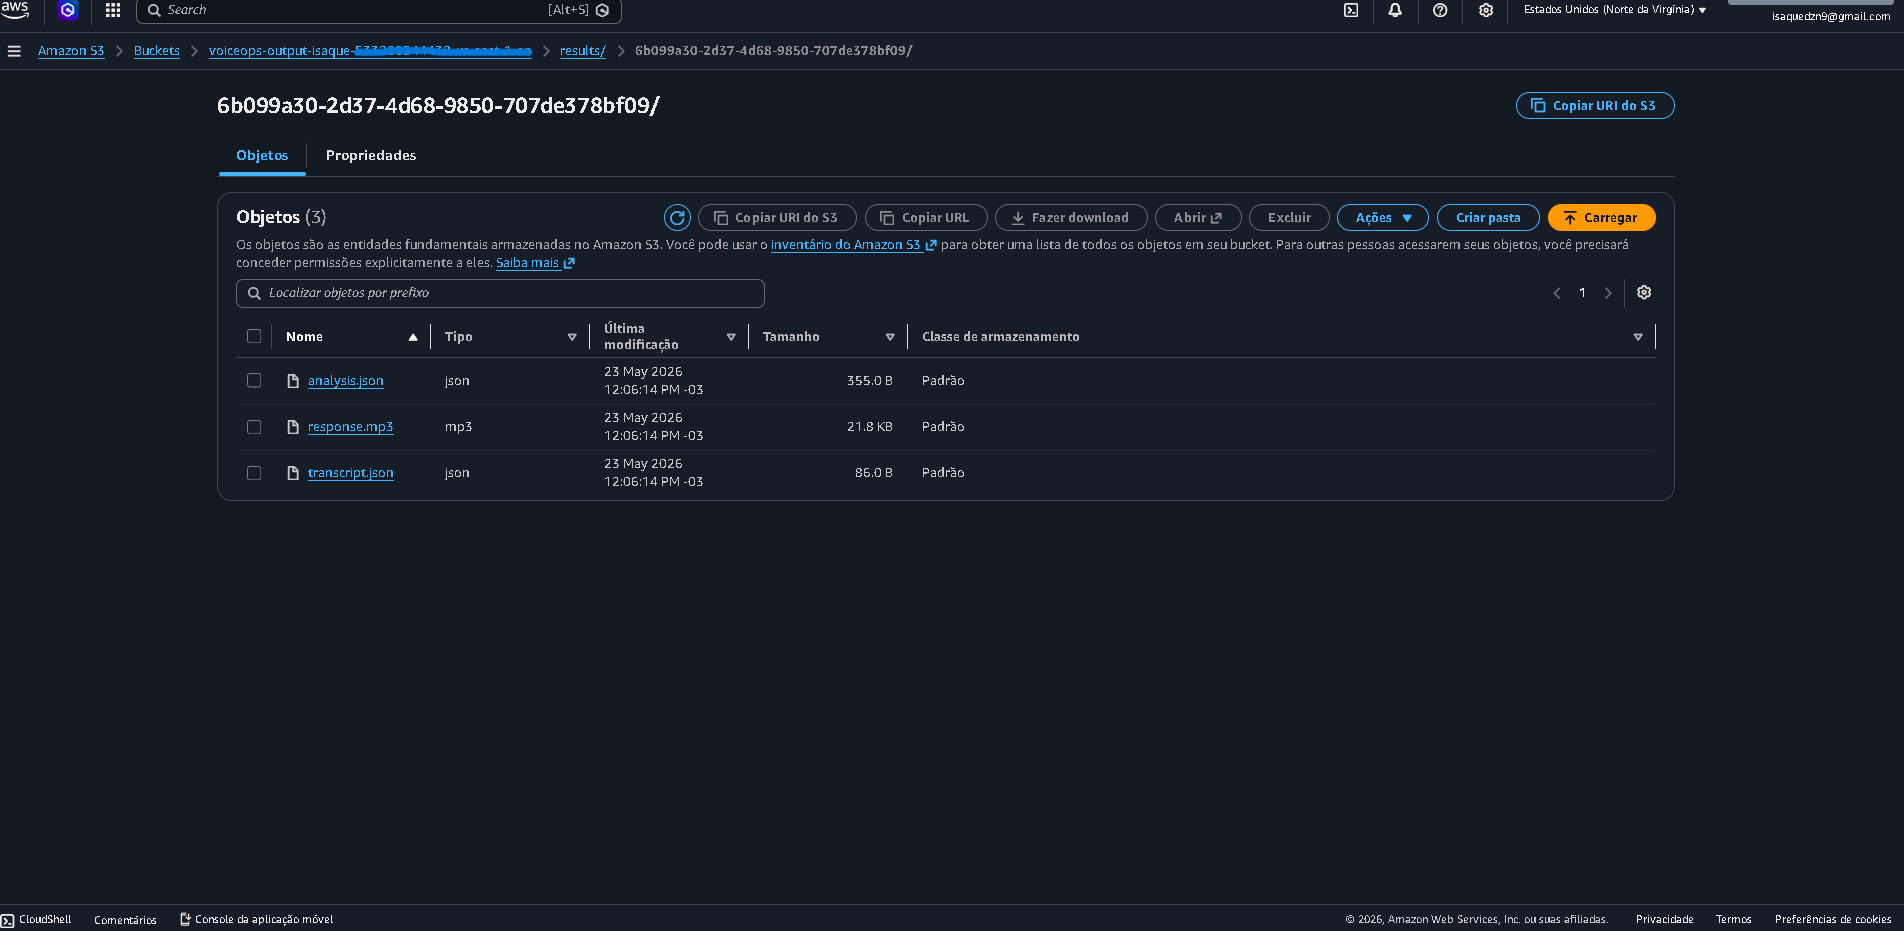
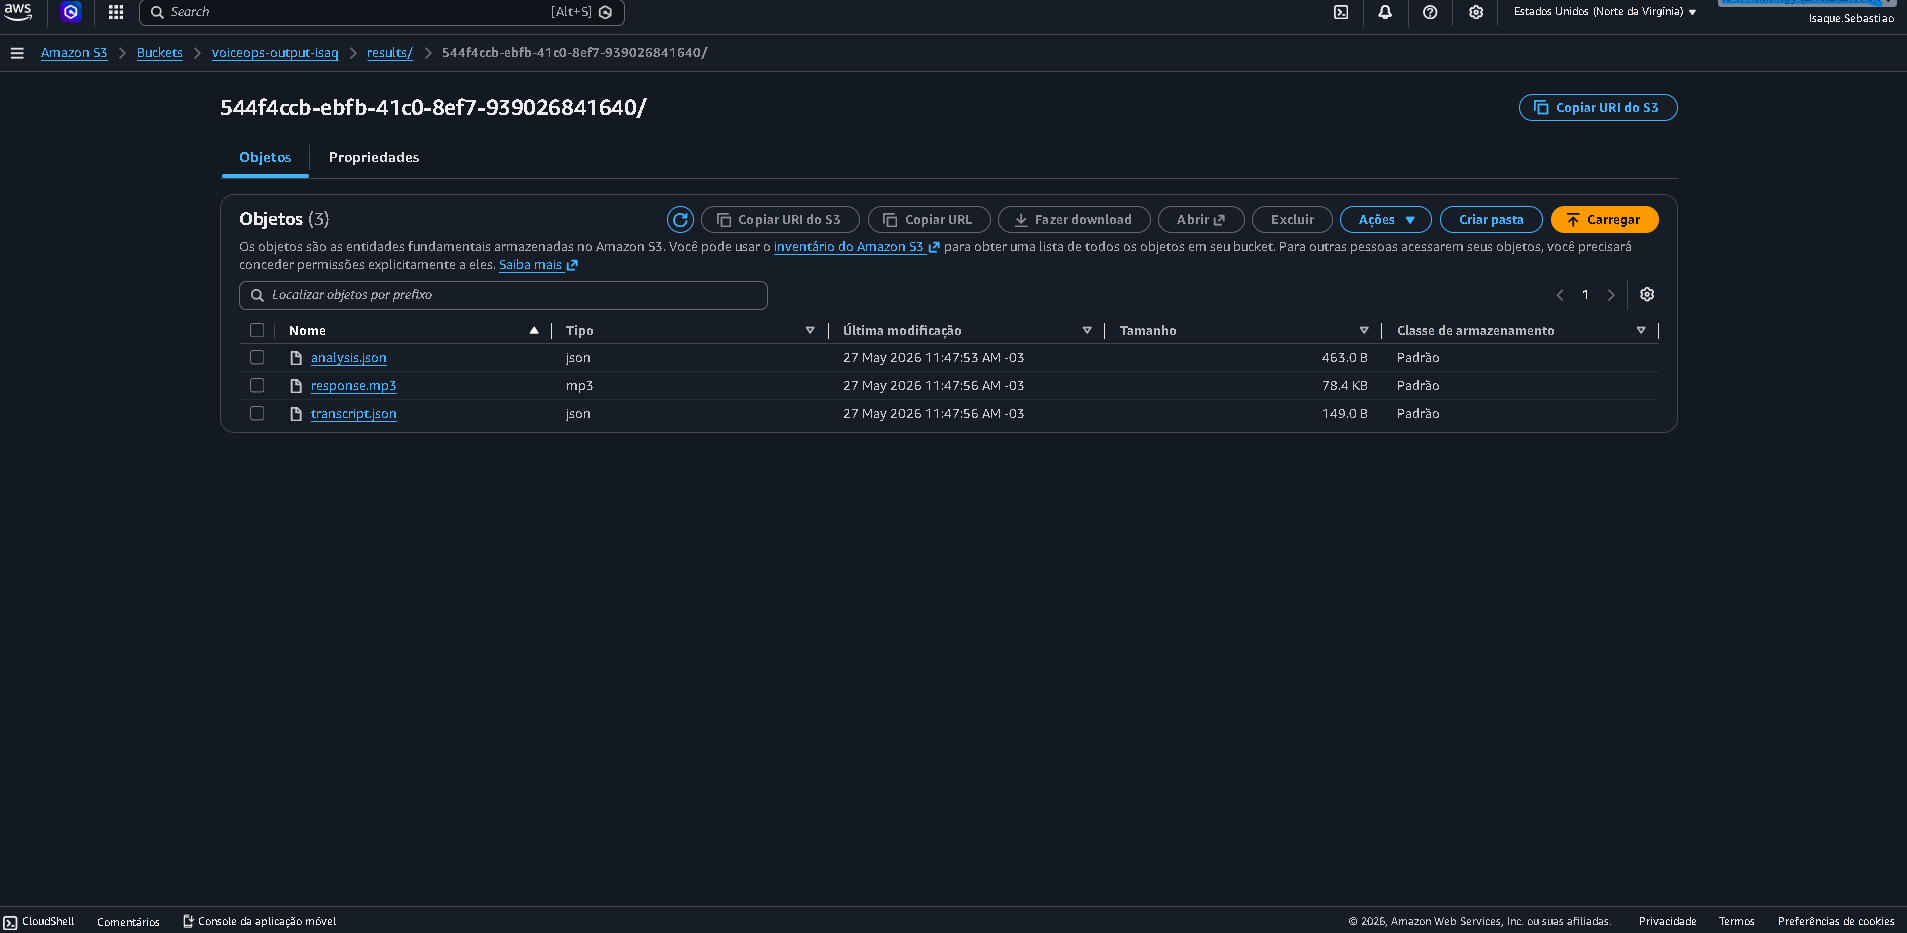
add: Adicionando Bedrock

diff --git a/lambda/bedrock.py b/lambda/bedrock.py
@@ -1,0 +1,36 @@
+import boto3
+import json
+
+bedrock = boto3.client("bedrock-runtime", region_name="us-east-1")
+
+def generate_response(transcript_text, sentiment):
+    prompt = f"""Você é um assistente de atendimento ao cliente.
+
+O cliente enviou a seguinte mensagem:
+"{transcript_text}"
+
+O sentimento detectado foi: {sentiment}
+
+Responda de forma empática, profissional e personalizada em português brasileiro.
+Máximo 2 frases."""
+
+    body = json.dumps({
+        "anthropic_version": "bedrock-2023-05-31",
+        "max_tokens": 200,
+        "messages": [
+            {
+                "role": "user",
+                "content": prompt
+            }
+        ]
+    })
+
+    response = bedrock.invoke_model(
+        modelId="us.anthropic.claude-haiku-4-5-20251001-v1:0",
+        body=body,
+        contentType="application/json",
+        accept="application/json"
+    )
+
+    result = json.loads(response["body"].read())
+    return result["content"][0]["text"]

diff --git a/lambda/lambda_function.py b/lambda/lambda_function.py
@@ -5,6 +5,7 @@ import urllib.request
 import logging
 import boto3
 import os
+from bedrock import generate_response
 
 logger = logging.getLogger()
 logger.setLevel(logging.INFO)
@@ -126,9 +127,17 @@ def lambda_handler(event, context):
     }))
 
    
-    # Polly: escolhe a resposta pelo sentimento e gera o MP3
-   
-    response_text = RESPONSES.get(sentiment, RESPONSES["NEUTRAL"])
+   #  Bedrock gera a resposta personalizada
+    response_text = generate_response(transcript_text, sentiment)
+
+
+    logger.info(json.dumps({
+        "job_id":        job_id,
+        "status":        "BEDROCK_RESPONSE_GENERATED",
+        "response_text": response_text
+    }))
+
+    # O Polly pega o texto que o Bedrock gerou e transforma em voz.
 
     polly_response = polly.synthesize_speech(
         Text=response_text,

diff --git a/readme.md b/readme.md
@@ -1,25 +1,37 @@
 # AI VoiceOps Pipeline
 
-Este projeto foi desenvolvido durante meus estudos para a certificação AWS AI Practitioner na Escola da Nuvem. A ideia surgiu ao combinar três laboratórios práticos sobre três serviços diferentes ( Amazon Transcribe, Comprehend e Polly ) em uma única pipeline real
+Este projeto foi desenvolvido durante meus estudos para a certificação AWS AI Practitioner na Escola da Nuvem. A ideia surgiu ao combinar três laboratórios práticos sobre três serviços diferentes ( Amazon Transcribe, Comprehend e Polly ) em uma única pipeline real, evoluído
+posteriormente com a adição do Amazon Bedrock para geração de respostas inteligentes.
 
-Em vez de usar cada serviço isoladamente, projetei uma arquitetura serverless orientada a eventos que encadeia os três automaticamente: o áudio entra, uma resposta em voz inteligente sai
+Em vez de usar cada serviço isoladamente, projetei uma arquitetura serverless orientada a eventos que encadeia os serviços automaticamente: o áudio entra, uma resposta em voz, personalizada e inteligente sai.
 
 ---
 
 ## Visão Geral
 
-Pipeline serverless que ouve um áudio de cliente, entende o que foi dito, detecta se a pessoa está satisfeita ou insatisfeita, e responde automaticamente com uma voz sintetizada, tudo em menos de 20 segundos, sem nenhum operador humano.
+Pipeline serverless que ouve um áudio de cliente, entende o que foi dito, detecta se a pessoa está satisfeita ou insatisfeita, gera uma resposta personalizada com IA generativa e responde automaticamente com voz sintetizada, tudo em menos de 20 segundos, sem nenhum operador humano.
 
 ## Caso de uso:
-Central de atendimento inteligente: o cliente envia um áudio, o sistema processa
-do início ao fim e responde com voz sintetizada, sem operador humano.
+Central de atendimento inteligente: o cliente envia um áudio, o sistema processa do início ao fim e responde com voz sintetizada, sem operador humano.
+
+---
+## Performance
+
+| Métrica | Resultado |
+|--------|-----------|
+| Tempo total de execução | < 20 segundos |
+| Custo estimado por execução | < $0.01 |
+| Arquivos gerados por execução | 3 (transcript.json, analysis.json, response.mp3) |
+| Idioma suportado | Português brasileiro (pt-BR) |
+| Formatos de áudio aceitos | MP3, WAV, OGG, FLAC, M4A |
+| Engine de voz | Neural (Amazon Polly - Camila) |
+| Modelo de linguagem | Claude Haiku (Amazon Bedrock) |
 
 ---
 
 ## Arquitetura
 
-![Arquitetura](assets/Arquitetura.png)
-
+![Arquitetura](assets/ai-voiceops-pipeline.png)
 
 
 ---
@@ -33,6 +45,7 @@ do início ao fim e responde com voz sintetizada, sem operador humano.
 - Amazon Transcribe — speech-to-text com diarização
 - Amazon Comprehend — NLP: sentimento, entidades, frases-chave, PII
 - Amazon Polly — text-to-speech Neural engine, voz Camila (pt-BR)
+- Amazon Bedrock — geração de resposta personalizada com Claude Haiku
 - Python 
 - GitHub Actions
 
@@ -46,9 +59,10 @@ do início ao fim e responde com voz sintetizada, sem operador humano.
 3. **job_id** — UUID gerado para rastrear todos os arquivos da execução
 4. **Transcribe** — job iniciado via boto3 com diarização ativada, polling a cada 5s até conclusão
 5. **Comprehend** — texto analisado: sentimento, entidades, frases-chave e detecção de PII
-6. **Polly** — resposta selecionada pelo sentimento detectado, sintetizada em MP3 com engine Neural e voz Camila (pt-BR)
-7. **Output** — três arquivos salvos no S3 sob `results/{job_id}/`
-8. **Deploy** — atualização do código da Lambda automatizada via GitHub Actions ao fazer push na `main`
+6. **Bedrock** — Claude Haiku gera uma resposta personalizada baseada no texto real do cliente e no sentimento detectado
+7. **Polly** — resposta sintetizada em MP3 com engine Neural e voz Camila (pt-BR)
+8. **Output** — três arquivos salvos no S3 sob `results/{job_id}/`
+9. **Deploy** — atualização do código da Lambda automatizada via GitHub Actions ao fazer push na `main`
 
 ---
 
@@ -60,43 +74,76 @@ Cada execução gera uma pasta isolada no S3:
 results/{job_id}/
 ├── transcript.json   — texto transcrito
 ├── analysis.json     — sentimento, entidades, frases-chave, PII
-└── response.mp3      — resposta em voz gerada pelo Polly
+└── response.mp3      — resposta personalizada em voz gerada pelo Polly
 ```
 
 ---
 
 ## Lógica de Resposta
 
-| Sentimento | Resposta automática |
-|------------|-------------------|
-| NEGATIVE | "Detectamos um problema e iremos priorizar seu atendimento." |
-| POSITIVE | "Obrigado pelo seu feedback positivo! Ficamos felizes em ajudar." |
-| NEUTRAL  | "Recebemos sua mensagem e iremos analisá-la em breve." |
-| MIXED    | "Agradecemos seu contato. Nossa equipe irá avaliar sua solicitação." |
+O Amazon Bedrock (Claude Haiku) recebe o texto transcrito e o sentimento detectado
+e gera uma resposta empática e personalizada baseada no que o cliente disse de verdade.
+
+**Exemplo real:**
+
+| | Conteúdo |
+|---|---|
+| **Áudio do cliente** | "Olha, o meu pedido não chegou na hora que era pra chegar. Não estou satisfeita." |
+| **Sentimento detectado** | NEGATIVE (99.9% de confiança) |
+| **Resposta gerada pelo Bedrock** | Resposta empática e personalizada baseada no contexto real |
+| **Resposta em voz** | MP3 sintetizado pela Camila (Polly Neural) |
 
 ---
-##
+## Evidências
+
 ![Bucket Output](assets/s3-bucket-output.png)
 
-![Logs e monitoramento no CloudWatch](assets/cloudwatchlogs.png)
+![Logs e monitoramento no CloudWatch](assets/cloudwatch.png)
 
 ---
 
 ## Execução
 
 1. Crie os três buckets S3: `voiceops-input`, `voiceops-transcripts`, `voiceops-output`
-2. Crie a IAM role `voiceops-lambda-role` com permissões para S3, Transcribe, Comprehend, Polly e CloudWatch
+2. Crie a IAM role `voiceops-lambda-role` com permissões para S3, Transcribe, Comprehend, Bedrock, Polly e CloudWatch
 3. Crie a função Lambda com runtime Python 3.12 e associe a role
 4. Configure o trigger S3 `ObjectCreated` no bucket de input
-5. Faça upload de um arquivo de áudio no bucket de input
-6. Acompanhe os logs no CloudWatch e o resultado no bucket de output
+5. Configure as environment variables na Lambda: `TRANSCRIPTS_BUCKET` e `OUTPUT_BUCKET`
+6. Faça upload de um arquivo de áudio no bucket de input
+7. Acompanhe os logs no CloudWatch e o resultado no bucket de output
 
 ---
+## CI/CD
+
+O projeto conta com um workflow no GitHub Actions que automatiza o deploy da função Lambda.
+
+### Como funciona
+
+Ao fazer push na branch `main`, o workflow executa automaticamente:
+
+1. Baixa o código do repositório
+2. Autentica na AWS usando credenciais armazenadas como secrets
+3. Empacota `lambda_function.py` e `bedrock.py` em `.zip`
+4. Atualiza o código da função `voiceops-pipeline` via AWS CLI
+
+### Configuração necessária
+
+Adicione os seguintes secrets em **Settings → Secrets and variables → Actions**:
+
+| Secret | Descrição |
+|--------|-----------|
+| `AWS_ACCESS_KEY_ID` | Chave de acesso da IAM user |
+| `AWS_SECRET_ACCESS_KEY` | Chave secreta da IAM user |
+
+> **Nota:** a infraestrutura (buckets S3, IAM role, trigger) precisa estar criada
+> previamente na conta AWS. O workflow atualiza apenas o código da função Lambda.
+
+---
+
 
 ## Melhorias Futuras
 
 - [ ] API Gateway para receber áudio via HTTP
-- [ ] Amazon Bedrock para resumo automático da transcrição
 - [ ] Amazon SQS + DLQ para resiliência do pipeline
 - [ ] Dashboard no CloudWatch para monitoramento em tempo real
 - [ ] Terraform para infraestrutura como código

diff --git a/docs/flow.md b/docs/flow.md
@@ -1,36 +1,90 @@
 # Fluxo do Pipeline
 
 ## 1. Input
-O usuário faz upload de um arquivo de áudio (MP3, WAV, OGG) para o bucket `voiceops-input` no S3.
+O usuário faz upload de um arquivo de áudio (MP3, WAV ou OGG) para o bucket `voiceops-input` no Amazon S3.
+
+---
 
 ## 2. Trigger
-O evento `ObjectCreated` do S3 aciona automaticamente a função Lambda.
-Um `job_id` único (UUID) é gerado para rastrear todos os arquivos dessa execução.
+O evento `ObjectCreated` do S3 aciona automaticamente a função AWS Lambda responsável pela orquestração do pipeline.
 
-## 3. Transcribe
-A Lambda chama o Amazon Transcribe com diarização de falantes ativada.
-Polling a cada 5 segundos até o job ser concluído.
-JSON bruto da transcrição salvo em `voiceops-transcripts/raw/{job_id}.json`.
+Um `job_id` único (UUID) é gerado para rastrear todos os arquivos relacionados à execução.
 
-## 4. Comprehend
-O texto transcrito é analisado para:
-- Sentimento (POSITIVE, NEGATIVE, NEUTRAL, MIXED)
-- Entidades nomeadas
-- Frases-chave
-- Detecção de PII
+---
 
-Resultado salvo em `voiceops-output/results/{job_id}/analysis.json`.
+## 3. Amazon Transcribe
+A Lambda inicia um job no Amazon Transcribe utilizando boto3.
 
-## 5. Polly
-A resposta é selecionada com base no sentimento detectado.
-O Amazon Polly sintetiza a fala usando engine Neural, voz Camila (pt-BR).
-Áudio salvo em `voiceops-output/results/{job_id}/response.mp3`.
+Recursos utilizados:
+- Diarização de falantes
+- Processamento assíncrono
+- Polling a cada 5 segundos até conclusão
 
-## 6. Output
-Estrutura final no S3:
-```
+O resultado bruto da transcrição é salvo em:
+voiceops-transcripts/raw/{job_id}.json
+
+## 4. Amazon Comprehend
+
+O texto transcrito é analisado utilizando Amazon Comprehend.
+
+Análises realizadas:
+
+Sentimento (POSITIVE, NEGATIVE, NEUTRAL, MIXED)
+Entidades nomeadas
+Frases-chave
+Detecção de PII
+
+Resultado salvo em:
+voiceops-output/results/{job_id}/analysis.json
+
+## 5. Amazon Bedrock
+
+A Lambda envia:
+
+texto transcrito
+sentimento detectado
+contexto da conversa
+
+para o Amazon Bedrock utilizando o modelo Claude 3 Haiku.
+
+O modelo gera uma resposta personalizada baseada no conteúdo real do cliente e na análise de sentimento.
+
+Resposta gerada:
+generated_response.txt
+
+## 6. Amazon Polly
+
+A resposta gerada pelo Bedrock é convertida em voz utilizando Amazon Polly.
+
+Configuração utilizada:
+
+Engine Neural
+Voz Camila (pt-BR)
+Saída em MP3
+
+Arquivo salvo em:
+voiceops-output/results/{job_id}/response.mp3
+
+## 7. Output
+
+Estrutura final armazenada no S3:
+
 results/{job_id}/
 ├── transcript.json
 ├── analysis.json
 └── response.mp3
-```
+
+## 8. Observabilidade
+
+Logs, erros e métricas da execução são centralizados no Amazon CloudWatch Logs.
+
+## 9. CI/CD
+
+O deploy da AWS Lambda é automatizado utilizando GitHub Actions.
+
+Fluxo:
+
+Push na branch main
+Workflow iniciado automaticamente
+Empacotamento do código
+Atualização da Lambda via AWS CLI
